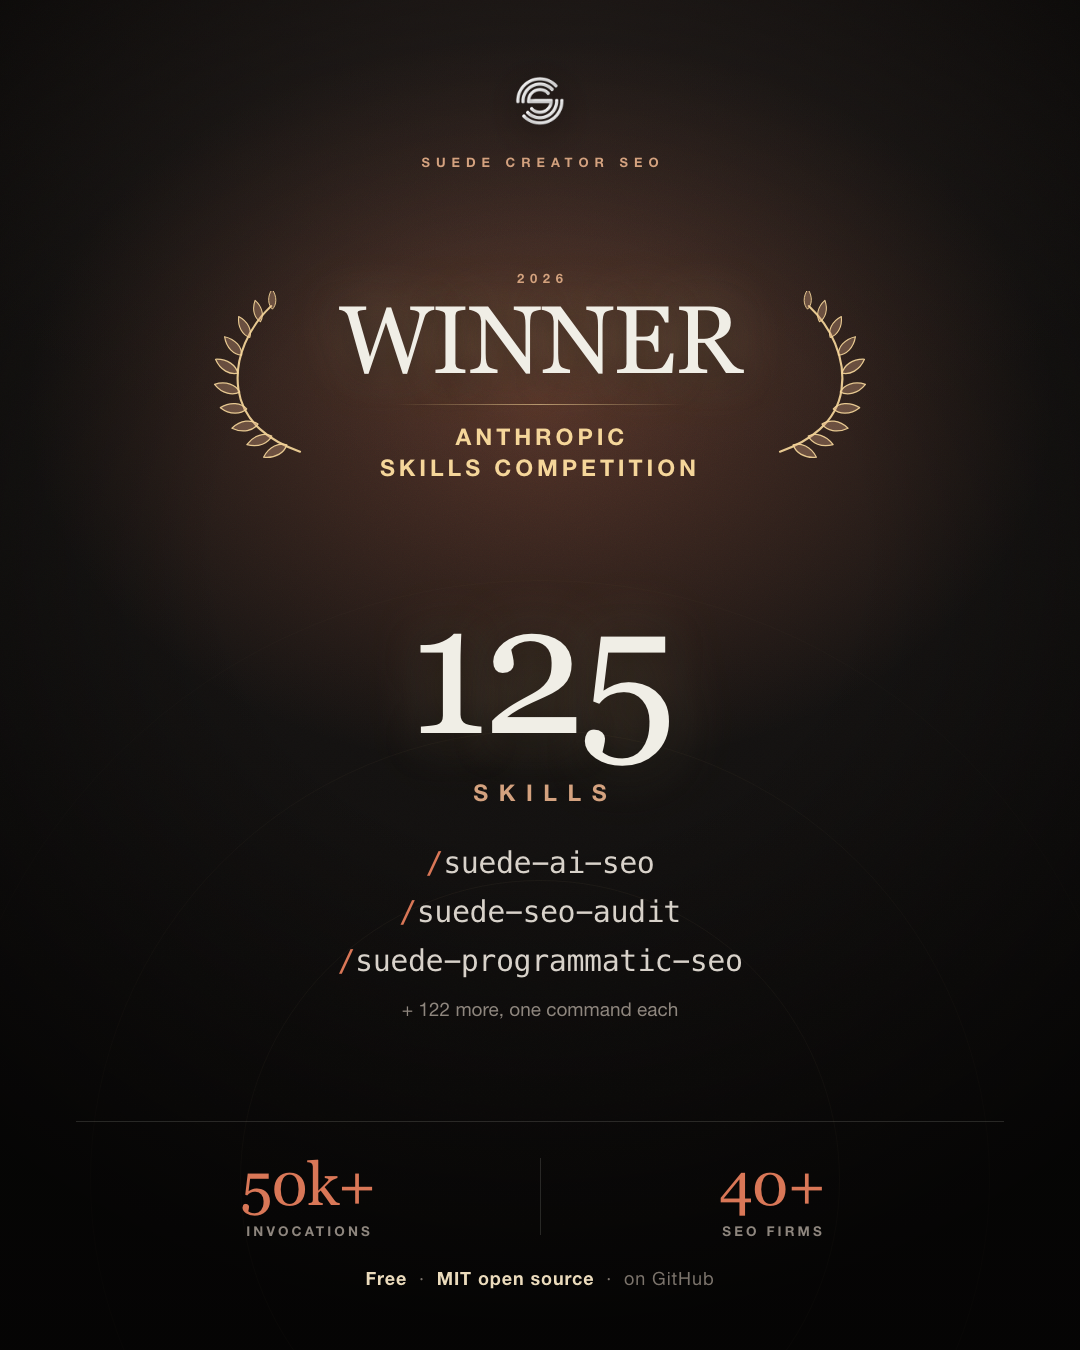
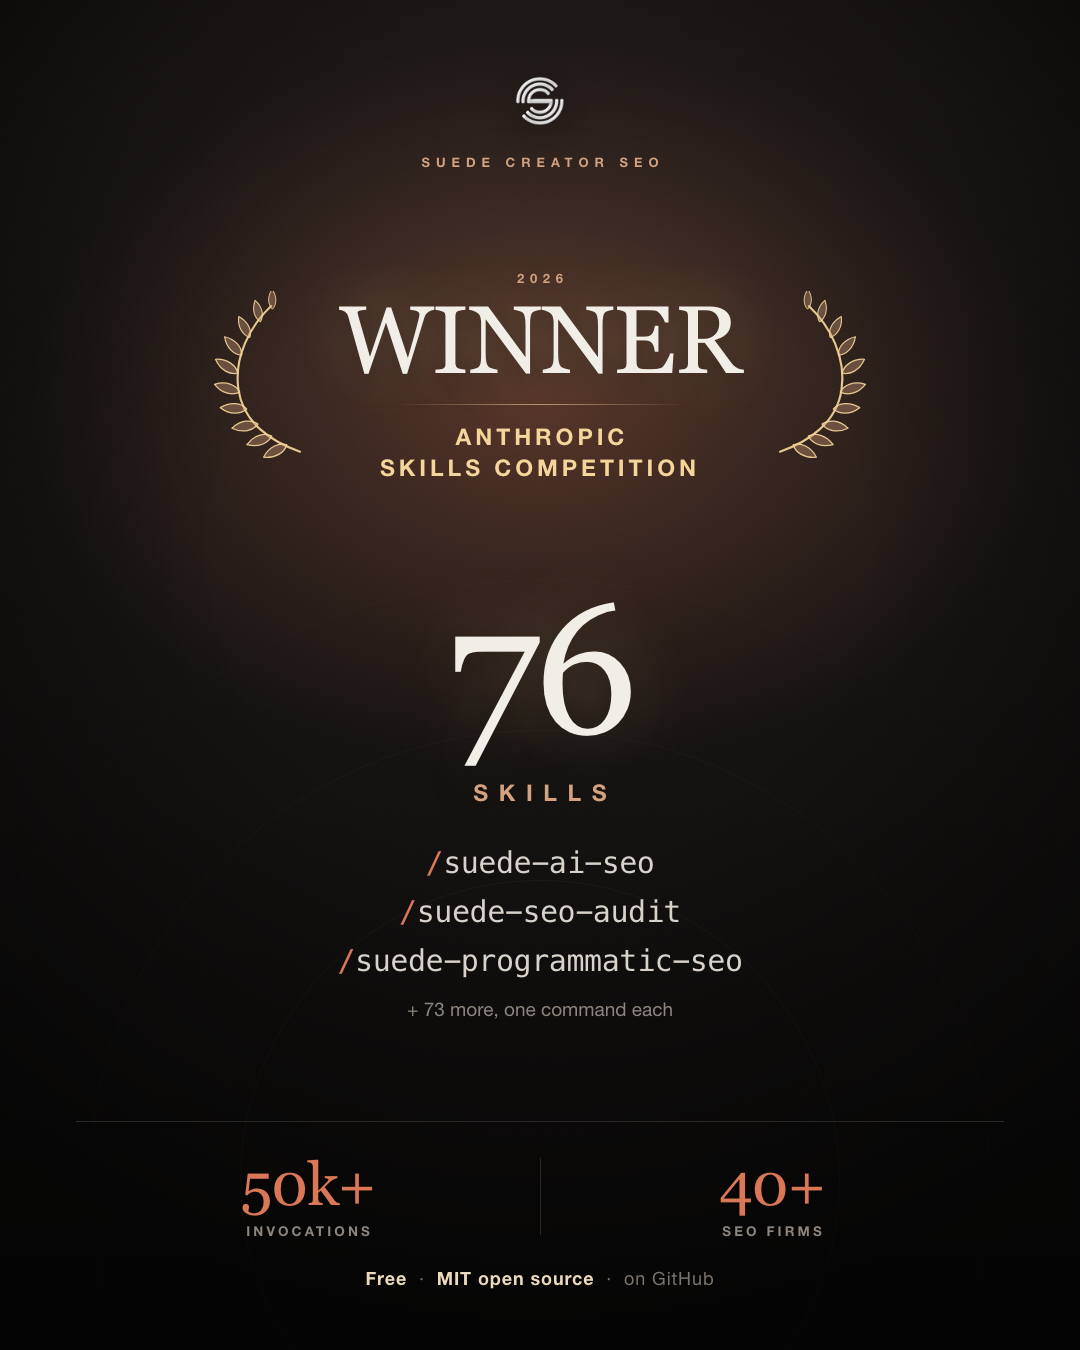
Correct the skill count on the social cards and guard it
The cards claimed 125 skills. That figure came from a local
~/.claude/skills/suede-* listing, which counts installed skills from every
source, not this pack. The pack is 76 SKILL.md packages, so both cards
stated a number the repo contradicts.

Sets the hero count to 76, the derived remainder to 73, and the stat-row
count to 76, and re-renders both PNG exports.

Registers all three occurrences in countChecks so the next skill added or
removed fails validation instead of silently leaving these public cards
stale. The PNGs cannot be regex-checked; the new comment points at the
render command in docs/assets/social/README.md.

Changed region(s): [[0.3972, 0.4356, 0.6417, 0.5911], [0.4278, 0.7467, 0.6111, 0.7778]]

diff --git a/docs/assets/social/card-125.html b/docs/assets/social/card-125.html
@@ -82,14 +82,14 @@
     </div></div>
 
     <div class="grp">
-      <div class="bignum">125</div>
+      <div class="bignum">76</div>
       <div class="biglabel">Skills</div>
       <div class="cmdlist">
         <div><span class="s">/</span>suede-ai-seo</div>
         <div><span class="s">/</span>suede-seo-audit</div>
         <div><span class="s">/</span>suede-programmatic-seo</div>
       </div>
-      <div class="more">+ 122 more, one command each</div>
+      <div class="more">+ 73 more, one command each</div>
     </div>
 
     <div class="grp">

diff --git a/docs/assets/social/card.html b/docs/assets/social/card.html
@@ -121,7 +121,7 @@
 
     <div class="grp">
       <div class="stats">
-        <div class="stat"><div class="n">125</div><div class="l">Skills</div></div>
+        <div class="stat"><div class="n">76</div><div class="l">Skills</div></div>
         <div class="stat"><div class="n">40+</div><div class="l">SEO firms</div></div>
         <div class="stat"><div class="n">50k+</div><div class="l">Invocations</div></div>
       </div>
